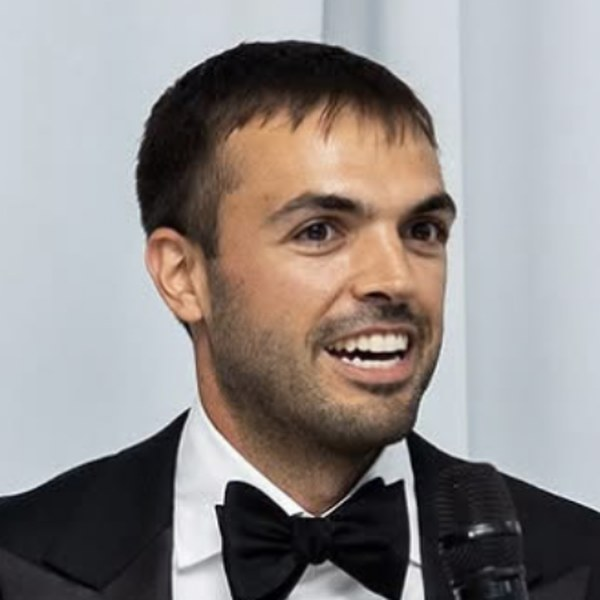
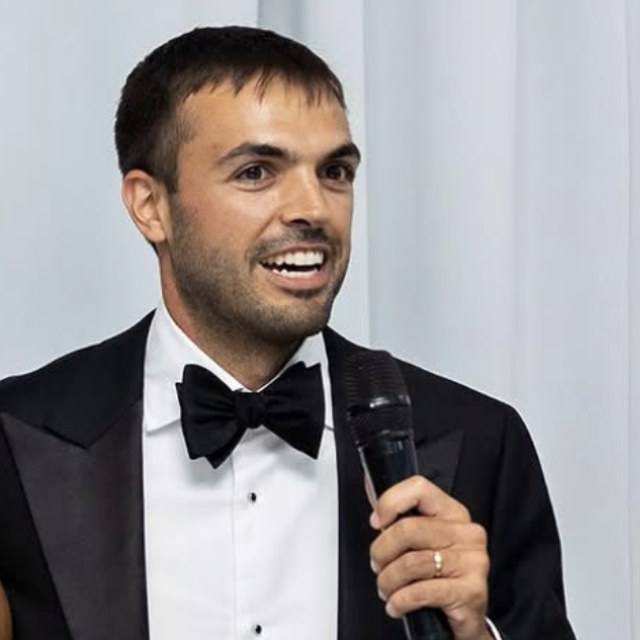
Wider headshot crop including mic
Claude-Session: https://claude.ai/code/session_013umb3gnReZvgXA3JoUZXmW

diff --git a/index.html b/index.html
@@ -98,7 +98,7 @@
       <h2 class="h2">Let's Connect</h2>
       <p class="intro">Connect with LBX Technologies to discuss your commissioning, project management and engineering needs.</p>
       <div class="person">
-        <img src="images/luke-binder.jpg" alt="Luke Binder" width="84" height="84">
+        <img src="images/luke-binder.jpg?v=2" alt="Luke Binder" width="84" height="84">
         <p class="name">Luke Binder</p>
       </div>
       <div class="contact-links">
